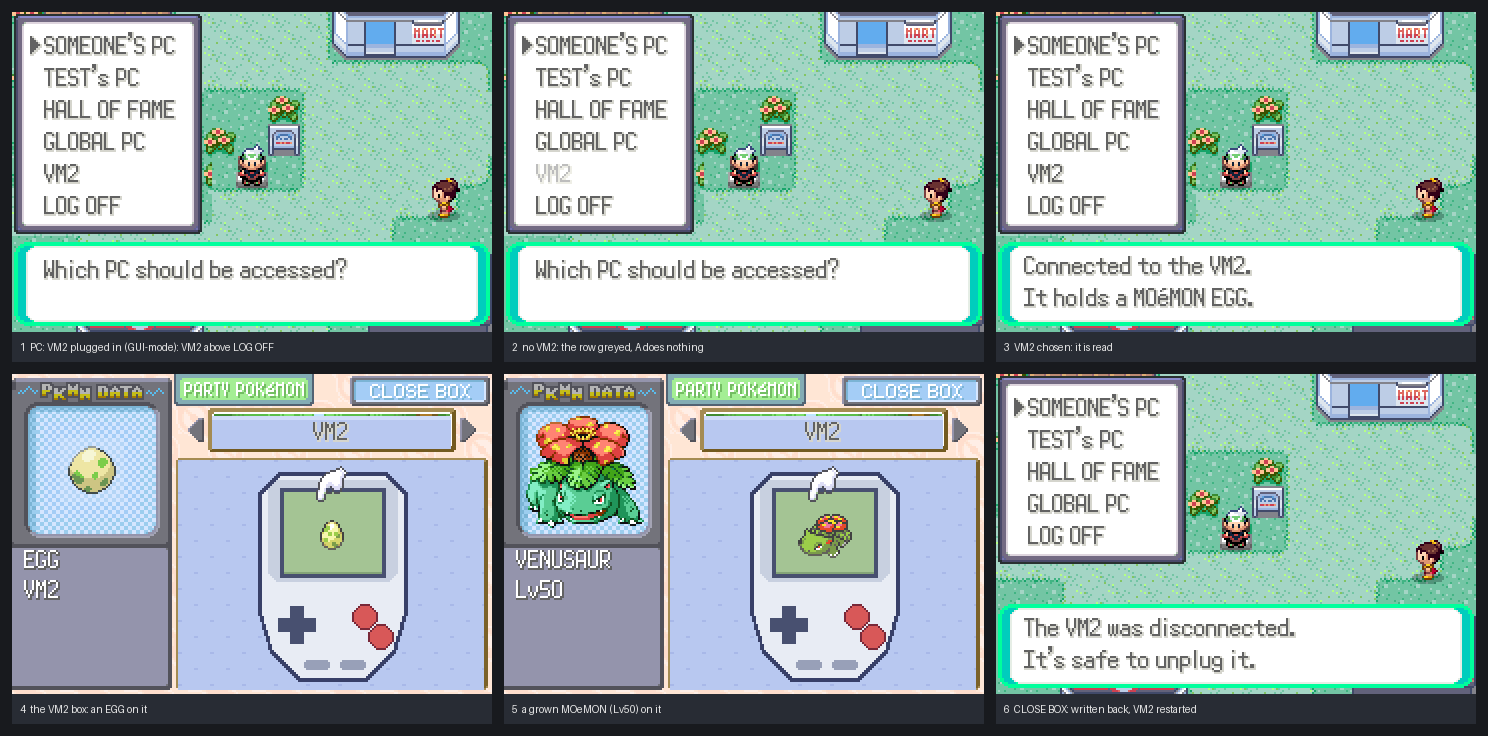
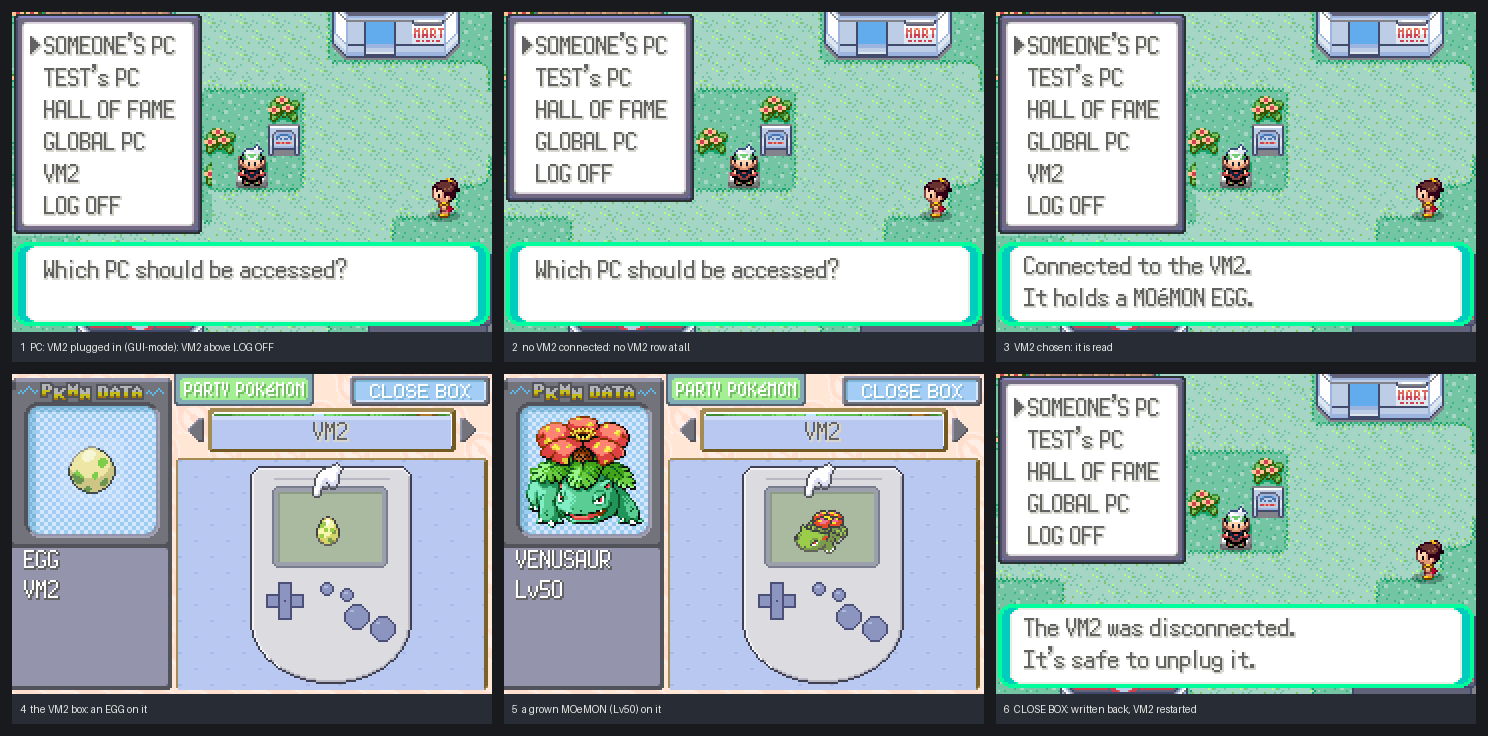
VMU pet mock-ups: the VMU redrawn after the real one; VM2 in the PC menu only while one is connected
Claude-Session: https://claude.ai/code/session_019n26BWpsJQPZ1uAABVUqMy

diff --git a/vmu_pet/tools/kai_mockups.py b/vmu_pet/tools/kai_mockups.py
@@ -50,7 +50,7 @@ def x2(im):
     return im.resize((im.width * 2, im.height * 2), Image.NEAREST)
 
 
-def pc_menu(shot, greyed):
+def pc_menu(shot, greyed=False):
     """The PC menu with VM2 above LOG OFF (rows are 32 pixels at 2x; the text at x 32)."""
     im = shot.copy()
     # the window grows a row: the LOG OFF row and the frame under it move down 32
@@ -77,8 +77,9 @@ def message(im, lines):
 
 
 def vmu_wallpaper():
-    """The VM2 box's wallpaper at GBA size (153x115): a VMU drawn as the games draw things, its screen the box's one
-    place."""
+    """The VM2 box's wallpaper at GBA size (153x115): a VMU as the Dreamcast's own (light grey, a curved bottom edge,
+    the screen in the middle at the top, a lavender D-pad on the left, SLEEP and MODE small in the middle, A and B on
+    the right, B lower), drawn as pixel art; its screen is the box's one place."""
     w, h = 153, 115
     im = Image.new('RGBA', (w, h), (184, 200, 240, 255))
     d = ImageDraw.Draw(im)
@@ -86,24 +87,65 @@ def vmu_wallpaper():
         for x in range((y // 8) % 2 * 8, w, 16):
             d.point((x, y), fill=(168, 184, 232))
             d.point((x + 1, y), fill=(168, 184, 232))
-    bx, by, bw, bh = 41, 6, 72, 104      # the VMU's body
-    body = [(bx + 10, by), (bx + bw - 10, by), (bx + bw, by + 10), (bx + bw, by + bh - 34), (bx + bw - 6, by + bh - 14),
-            (bx + bw - 20, by + bh), (bx + 20, by + bh), (bx + 6, by + bh - 14), (bx, by + bh - 34), (bx, by + 10)]
-    d.polygon(body, fill=(232, 236, 244), outline=(56, 64, 104))
-    d.line(body + [body[0]], fill=(56, 64, 104), width=2)
-    d.rounded_rectangle([bx + 4, by + 4, bx + bw - 4, by + bh - 50], 6, fill=(200, 208, 224))
-    sx, sy, sw, sh = bx + 12, by + 10, 48, 40   # the LCD
-    d.rectangle([sx - 2, sy - 2, sx + sw + 2, sy + sh + 2], fill=(72, 80, 112))
-    d.rectangle([sx, sy, sx + sw, sy + sh], fill=(164, 196, 148))
-    d.line([sx, sy + sh, sx + sw, sy + sh], fill=(132, 164, 120))
-    cx, cy = bx + 18, by + 76            # the D-pad
-    d.rectangle([cx - 9, cy - 3, cx + 9, cy + 3], fill=(72, 80, 112))
-    d.rectangle([cx - 3, cy - 9, cx + 3, cy + 9], fill=(72, 80, 112))
-    for ax, ay, l in ((bx + 52, by + 72, 'A'), (bx + 60, by + 82, 'B')):
-        d.ellipse([ax - 6, ay - 6, ax + 6, ay + 6], fill=(216, 88, 88), outline=(120, 40, 56))
-    for i in range(2):                   # SLEEP / MODE
-        d.rounded_rectangle([bx + 22 + i * 18, by + 94, bx + 34 + i * 18, by + 98], 2, fill=(152, 160, 184))
-    return im, (sx + sw // 2 - 16, sy + sh // 2 - 18)
+    OUT, BODY, LIGHT, SHADE = (64, 64, 80), (220, 220, 224), (244, 244, 248), (184, 184, 196)
+    BTN, BTN_D, BTN_L = (140, 148, 192), (76, 80, 120), (176, 184, 220)
+    bx, bw, top, side_end, bottom = 36, 81, 3, 80, 112
+    cx = bx + bw / 2
+
+    def inside(x, y):
+        if y < top or y > bottom or x < bx or x > bx + bw:
+            return False
+        r = 7                            # the top corners
+        for ccx in (bx + r, bx + bw - r):
+            if y < top + r and abs(x - ccx) > 0 and ((x < bx + r and ccx == bx + r) or (x > bx + bw - r and ccx == bx + bw - r)):
+                if (x - ccx) ** 2 + (y - (top + r)) ** 2 > r * r:
+                    return False
+        if y > side_end:                 # the curved bottom: an ellipse's lower half
+            ry = bottom - side_end
+            rx = bw / 2
+            if ((x - cx) / rx) ** 2 + ((y - side_end) / ry) ** 2 > 1:
+                return False
+        return True
+    px = im.load()
+    for y in range(h):
+        for x in range(w):
+            if inside(x + 0.5, y + 0.5):
+                px[x, y] = BODY + (255,)
+    for y in range(h):                   # outline, a light edge top-left, a shade bottom-right
+        for x in range(w):
+            if px[x, y][:3] != BODY:
+                continue
+            n = [inside(x + 0.5 + dx, y + 0.5 + dy) for dx, dy in ((-1, 0), (1, 0), (0, -1), (0, 1))]
+            if not all(n):
+                px[x, y] = OUT + (255,)
+            elif not inside(x - 1.5, y + 0.5) or not inside(x + 0.5, y - 1.5):
+                px[x, y] = LIGHT + (255,)
+            elif not inside(x + 2.5, y + 0.5) or not inside(x + 0.5, y + 2.5):
+                px[x, y] = SHADE + (255,)
+    # the top edge's strip (where the Dreamcast word sits)
+    d.line([bx + 12, top + 6, bx + bw - 12, top + 6], fill=SHADE)
+    # the screen: a grey frame and the LCD
+    sx, sy, sw, sh = int(cx) - 26, top + 13, 51, 34
+    d.rounded_rectangle([sx - 3, sy - 3, sx + sw + 3, sy + sh + 3], 3, fill=(156, 160, 172), outline=(120, 124, 140))
+    d.rectangle([sx, sy, sx + sw, sy + sh], fill=(170, 186, 160))
+    d.line([sx, sy, sx + sw, sy], fill=(140, 156, 132))
+    d.line([sx, sy, sx, sy + sh], fill=(140, 156, 132))
+
+    def button(x, y, r):
+        d.ellipse([x - r, y - r, x + r, y + r], fill=BTN, outline=BTN_D)
+        d.point((x - r // 2, y - r // 2), fill=BTN_L)
+        d.point((x - r // 2 + 1, y - r // 2), fill=BTN_L)
+    # the D-pad (left), SLEEP / MODE (middle), A / B (right, B lower)
+    dx, dy = bx + 17, top + 67
+    for (x0, y0, x1, y1) in ((dx - 9, dy - 3, dx + 9, dy + 3), (dx - 3, dy - 9, dx + 3, dy + 9)):
+        d.rectangle([x0, y0, x1, y1], fill=BTN, outline=BTN_D)
+    d.rectangle([dx - 2, dy - 2, dx + 2, dy + 2], fill=BTN)
+    d.point((dx, dy), fill=BTN_D)
+    button(int(cx) - 2, top + 61, 3)
+    button(int(cx) + 8, top + 64, 3)
+    button(bx + 53, top + 75, 6)
+    button(bx + 66, top + 81, 6)
+    return im, (sx + sw // 2 - 16, sy + sh // 2 - 17)
 
 
 def vm2_box(shot, mon, name_lines):
@@ -152,7 +194,7 @@ def main():
     data = ((255, 255, 255), (98, 98, 98))
     panels = [
         label(pc_menu(menu, False), '1  PC: VM2 plugged in (GUI-mode): VM2 above LOG OFF'),
-        label(pc_menu(menu, True), '2  no VM2: the row greyed, A does nothing'),
+        label(menu.copy(), '2  no VM2 connected: no VM2 row at all'),
         label(message(pc_menu(menu, False), ['Connected to the VM2.', 'It holds a MOéMON EGG.']), '3  VM2 chosen: it is read'),
         label(vm2_box(boxes, ('egg', 1, 'egg'), [('EGG', data), ('VM2', data)]), '4  the VM2 box: an EGG on it'),
         label(vm2_box(boxes, ('venusaur', 1, 'venusaur'), [('VENUSAUR', data), ('Lv50', data)]), '5  a grown MOeMON (Lv50) on it'),

diff --git a/docs/VMU_PET_DECISIONS.md b/docs/VMU_PET_DECISIONS.md
@@ -160,9 +160,12 @@ helps) and type against type (the full type chart): super effective hits for 2, 
 
 ## Kai's side: mock-ups for review (2026-11-21)
 
-`docs/vmu_pet/kai_vm2_mockups.png` (drawn over the game's own PC menu and box screen with its own font and pictures:
+`docs/vmu_pet/kai_vm2_mockups.png` (the user, 2026-11-21: "looks good, but the VMU graphic doesn't look right":
+redrawn after a real VMU: light grey, a curved bottom edge, the screen centred at the top, lavender D-pad, SLEEP /
+MODE, A and B; drawn over the game's own PC menu and box screen with its own font and pictures:
 `vmu_pet/tools/kai_mockups.py`, `gbafont.py`; the base shots in docs/vmu_pet/kai_src/). Proposed, waiting on the user:
-1. The PC menu gets **VM2** above LOG OFF; with no VM2 answering (plugged in, GUI-mode) it's greyed and does nothing.
+1. The PC menu gets **VM2** above LOG OFF, only while a VM2 is connected (the user, 2026-11-21: "should not appear in
+   the PC unless a VM2 is connected").
 2. Choosing it reads the VM2 ("Connected to the VM2. It holds a MOéMON EGG.").
 3. The box screen opens at a **VM2 box** (a VMU drawn as its wallpaper, one place: its screen); L / R go on to the
    player's own boxes, so the EGG or the grown MOéMON can be dropped anywhere, and an EGG of the edition put on it.
